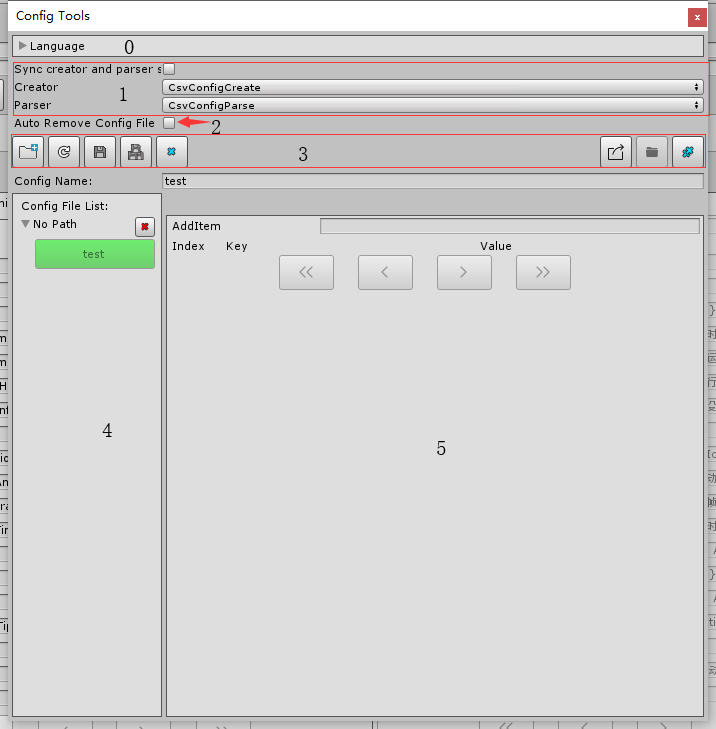
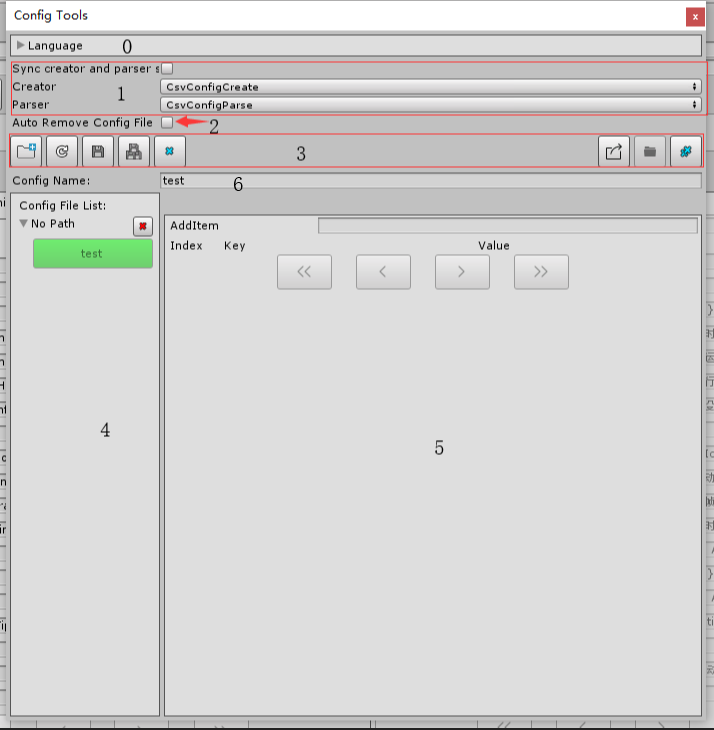
!AW 英文文档写完

diff --git a/Doc/En/Editor/2.LocalizationTool.md b/Doc/En/Editor/2.LocalizationTool.md
@@ -1,0 +1,25 @@
+Menu Path `Icarus/EditorFrame/Localization/Localization Editor`
+
+![Localization Tools](../../../Images/Editor/En/LocalizationTools.png)
+
+0. ###### Please see[NeedLnow](0.NeedLnow.md#LanguageSeting)
+1. ###### Please see[NeedLnow](0.NeedLnow.md#CreatAndParseSelect)
+2. When it is turned on Automatically save all language configurations after the editor loses focus
+2. ###### Remove Language and Delete File
+- When it is turned on, the local file will also be deleted when the configuration is deleted.
+4. Language configuration creation area, the group name cannot be empty when no language configuration is selected. If the language configuration is selected and no group name is entered, it is created it in the currently selected language configuration group. If the language configuration is selected and the group name is entered,it is Created it  in the entered group name
+5. The language you need to create, available in 50 languages
+6. Ribbon, left to right Description:
+> 1. Add a directory, click to open a directory selection, select the directory will scan the current selection of creator created file
+> 2.  Refresh the file (re-read), note that if Data it is not saved as a file it will be deleted Data
+> 3. Save the current edit language configuration (available only after the language configuration is selected)
+> 4. Save all language configurations (available only when language configurations exist)
+> 5. Delete the configuration. If you check [Remove Language and Delete File](#RemoveLanguageandDeleteFile), the local file will be deleted, and the icon will be changed to red, otherwise it will only be deleted from the editor.
+> 6. Export the group of the currently edited language configuration (available only if language configuration is selected)
+> 7. Export all language configurations (available only when language configurations exist)
+> 8. Open the directory where the current edit language configuration is located (available only after the language configuration is selected)
+> 9. Delete all configurations. If you check [Remove Language and Delete File](#RemoveLanguageandDeleteFile), the local files will be deleted, and the icon will be changed to red,otherwise they will only be deleted from the editor.
+
+7. Language configuration list area
+8. Language configuration operation area
+9. Language configuration comparison area

diff --git a/Doc/En/Editor/1.ConfigTools.md b/Doc/En/Editor/1.ConfigTools.md
@@ -1,0 +1,21 @@
+Menu Path `Icarus/EditorFrame/Config/Config Editor`
+
+![Config Tools](../../../Images/Editor/En/ConfigTools.png)
+
+0. ###### Please see[NeedLnow](0.NeedLnow.md#LanguageSeting)
+1. ###### Please see[NeedLnow](0.NeedLnow.md#CreatAndParseSelect)
+2. ###### Auto Remove Config File
+- When it is turned on, the local file will also be deleted when the configuration is deleted.
+3. Ribbon, left to right Description:
+> 1. Add a directory, click to open a directory selection, select the directory will scan the current selection of creator created file
+> 2. Refresh the file (re-read), note that if Data it is not saved as a file it will be deleted Data
+> 3. Save the current edit configuration (available only after the configuration is selected)
+> 4. Save all configurations (available only when configurations exist)
+> 5. Delete the configuration. If you check [Auto Remove Config File](#AutoRemoveConfigFile), the local file will be deleted, and the icon will be changed to red, otherwise it will only be deleted from the editor.
+> 6. Export all configurations (available only when configurations exist)
+> 7. Open the directory where the current edit configuration is located (available only after the configuration is selected)
+> 8. Delete all configurations. If you check [Auto Remove Config File](#AutoRemoveConfigFile), the local files will be deleted, and the icon will be changed to red,otherwise they will only be deleted from the editor.
+
+4. Config list area
+5. Config operating area
+6. Config name,Enter to create config. If the config name already exists, it will not be create.

diff --git a/Doc/En/Editor/0.NeedLnow.md b/Doc/En/Editor/0.NeedLnow.md
@@ -1,0 +1,16 @@
+![NeedLnow](../../../Images/Editor/En/Common.png)
+
+You will see such ui in both Config Tools and Localization Tools. can are they doing? It will be explained below.
+
+###### LanguageSeting
+1. Window language selection area
+- Here you can select the language of the window, you can only select the language Loaded.
+2. Language information area of the window language (similar to variant)
+> 1. Language info ribbon
+>> 1. Add a language message that will be displayed in LanguageLoadInfos
+>> 2. Apply language info
+> 2. Language infor area, when language info is added, you can modify the language info here.
+
+###### CreatAndParseSelect
+3. Config creator/parser selection area
+> 1. When the creator or parser is selected after opening, the other party's selection will be synchronized, provided that the number of both parties is the same.

diff --git a/Doc/Zh/Editor/2.LocalizationTool.md b/Doc/Zh/Editor/2.LocalizationTool.md
@@ -1,6 +1,6 @@
-菜单在`Icarus/EditorFrame/Localization/Localization Editor`
+菜单在 `Icarus/EditorFrame/Localization/Localization Editor`
 
-![Config Tools](../../../Images/Editor/Zh/LocalizationTools.png)
+![Localization Tools](../../../Images/Editor/Zh/LocalizationTools.png)
 
 0. ###### 请看[需知](0.需知.md#LanguageSeting)
 1. ###### 请看[需知](0.需知.md#CreatAndParseSelect)

diff --git a/Doc/Zh/Editor/1.ConfigTools.md b/Doc/Zh/Editor/1.ConfigTools.md
@@ -1,4 +1,4 @@
-#### 菜单路径在`Icarus/EditorFrame/Config/Config Editor`
+菜单路径在 `Icarus/EditorFrame/Config/Config Editor`
 
 ![Config Tools](../../../Images/Editor/Zh/ConfigTools.png)
 
